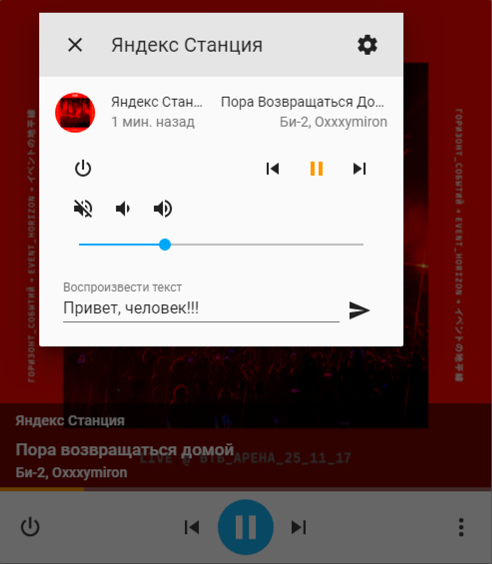
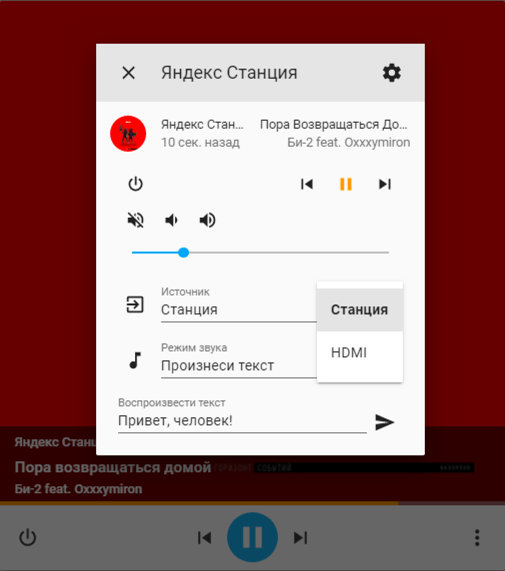
Add support Yandex.Station HDMI

diff --git a/custom_components/yandex_station/utils.py b/custom_components/yandex_station/utils.py
@@ -1,8 +1,10 @@
 import json
 import logging
 import os
-from ssl import SSLContext
+import pickle
+import re
 from functools import lru_cache
+from ssl import SSLContext
 from typing import Optional
 
 import requests
@@ -81,3 +83,89 @@ async def send_to_station(device: dict, message: dict = None):
         _LOGGER.error(f"Station connect error: {e}")
 
         return None
+
+
+UA = "Mozilla/5.0 (Windows NT 10.0; rv:40.0) Gecko/20100101 Firefox/40.0"
+RE_CSRF = re.compile('"csrfToken2":"(.+?)"')
+
+
+class Quasar:
+    """Класс для работы с Квазар API. Авторизация через Яндекс.Паспорт и
+    сохранение сессии в куки.
+    """
+
+    def __init__(self, username: str, password: str, cookie_path: str):
+        self._username = username
+        self._password = password
+        self._cookie_path = cookie_path
+
+        self.session = requests.Session()
+        self.session.headers = {'User-Agent': UA}
+
+        self.load_cookies()
+
+    def load_cookies(self):
+        """Загружает куки из файла."""
+        if os.path.isfile(self._cookie_path):
+            with open(self._cookie_path, 'rb') as f:
+                cookies = pickle.loads(f.read())
+                self.session.cookies.update(cookies)
+
+    def save_cookies(self):
+        """Сохраняет куки в файл."""
+        with open(self._cookie_path, 'wb') as f:
+            pickle.dump(self.session.cookies, f)
+
+    def get_csrf_token(self) -> Optional[str]:
+        """Проверяет есть ли авторизация в Яндексе и если её нет -
+        авторизуется. Возвращает CSRF-токен, необходимый для POST-заросов.
+        """
+        r = self.session.get('https://quasar.yandex.ru/skills/')
+
+        if r.url.endswith('promo'):
+            _LOGGER.info("Login to Yandex Passport")
+
+            self.session.get('https://passport.yandex.ru/')
+            self.session.post('https://passport.yandex.ru/passport', params={
+                'mode': 'auth', 'retpath': 'https://yandex.ru'
+            }, data={
+                'login': self._username, 'passwd': self._password
+            })
+            r = self.session.get('https://quasar.yandex.ru/skills/')
+
+            self.save_cookies()
+
+        else:
+            _LOGGER.debug("Already login Yandex")
+
+        m = RE_CSRF.search(r.text)
+        if m:
+            _LOGGER.debug(f"CSRF Token: {m[1]}")
+            return m[1]
+        else:
+            _LOGGER.error("Can't get CSRF Token")
+            return None
+
+    def get_device_config(self, config: dict):
+        self.get_csrf_token()
+
+        r = self.session.get(
+            'https://quasar.yandex.ru/get_device_config',
+            params={'device_id': config['id'], 'platform': config['platform']})
+        _LOGGER.debug(r.text)
+
+        res = r.json()
+        if res.get('status') == 'error':
+            _LOGGER.error(res['message'])
+            return None
+        else:
+            return res['config']
+
+    def set_device_config(self, config: dict, quasar_config: dict):
+        csrf = self.get_csrf_token()
+        r = self.session.post(
+            'https://quasar.yandex.ru/set_device_config',
+            params={'device_id': config['id'], 'platform': config['platform']},
+            headers={'x-csrf-token': csrf},
+            json=quasar_config)
+        _LOGGER.debug(r.text)

diff --git a/custom_components/yandex_station/media_player.py b/custom_components/yandex_station/media_player.py
@@ -8,12 +8,12 @@ from homeassistant.components.media_player import MediaPlayerDevice, \
     SUPPORT_PAUSE, SUPPORT_VOLUME_SET, SUPPORT_PREVIOUS_TRACK, \
     SUPPORT_NEXT_TRACK, SUPPORT_PLAY, SUPPORT_TURN_OFF, \
     SUPPORT_VOLUME_STEP, SUPPORT_VOLUME_MUTE, SUPPORT_PLAY_MEDIA, SUPPORT_SEEK, \
-    SUPPORT_SELECT_SOUND_MODE
+    SUPPORT_SELECT_SOUND_MODE, SUPPORT_SELECT_SOURCE
 from homeassistant.const import STATE_PLAYING, STATE_PAUSED, \
     STATE_IDLE
 from homeassistant.util import dt
 
-from . import utils
+from . import utils, DOMAIN
 
 _LOGGER = logging.getLogger(__name__)
 
@@ -31,7 +31,12 @@ def setup_platform(hass, config, add_entities, discovery_info=None):
     if discovery_info is None:
         return
 
-    add_entities([YandexStation(discovery_info)])
+    if DOMAIN in hass.data and discovery_info['platform'] == 'yandexstation':
+        quasar = hass.data[DOMAIN]
+        quasar_config = quasar.get_device_config(discovery_info)
+        add_entities([YandexStationHDMI(discovery_info, quasar_config)])
+    else:
+        add_entities([YandexStation(discovery_info)])
 
 
 class YandexStation(MediaPlayerDevice):
@@ -211,3 +216,37 @@ class YandexStation(MediaPlayerDevice):
             'command': 'sendText',
             'text': "Главный экран"
         })
+
+
+SOURCE_STATION = 'Станция'
+SOURCE_HDMI = 'HDMI'
+
+
+class YandexStationHDMI(YandexStation):
+    def __init__(self, config: dict, quasar_config: dict):
+        super().__init__(config)
+
+        self._quasar_config = quasar_config
+
+    @property
+    def supported_features(self):
+        return super().supported_features | SUPPORT_SELECT_SOURCE
+
+    @property
+    def source(self):
+        return SOURCE_HDMI if self._quasar_config.get('hdmiAudio') \
+            else SOURCE_STATION
+
+    @property
+    def source_list(self):
+        return [SOURCE_STATION, SOURCE_HDMI]
+
+    def select_source(self, source):
+        quasar = self.hass.data[DOMAIN]
+
+        if source == SOURCE_STATION:
+            self._quasar_config.pop('hdmiAudio', None)
+        else:
+            self._quasar_config['hdmiAudio'] = True
+
+        quasar.set_device_config(self._config, self._quasar_config)

diff --git a/custom_components/yandex_station/__init__.py b/custom_components/yandex_station/__init__.py
@@ -14,6 +14,7 @@ from homeassistant.setup import setup_component
 
 from zeroconf import ServiceBrowser, Zeroconf
 from . import utils
+from .utils import Quasar
 
 _LOGGER = logging.getLogger(__name__)
 
@@ -43,7 +44,12 @@ def setup(hass, hass_config):
 
     _LOGGER.info(f"{len(devices)} device found in Yandex account.")
 
-    async def play_media(call: ServiceCall):
+    if config.get('control_hdmi'):
+        filename = hass.config.path(f".{DOMAIN}_cookies.pickle")
+        quasar = Quasar(config[CONF_USERNAME], config[CONF_PASSWORD], filename)
+        hass.data[DOMAIN] = quasar
+
+    async def send_command(call: ServiceCall):
         data = dict(call.data)
 
         device: dict = data.pop('device', None)
@@ -86,9 +92,9 @@ def setup(hass, hass_config):
 
     def add_device(info: dict):
         info['yandex_token'] = yandex_token
-        load_platform(hass, 'media_player', DOMAIN, info, hass_config)
+        load_platform(hass, DOMAIN_MP, DOMAIN, info, hass_config)
 
-    hass.services.register(DOMAIN, 'send_command', play_media)
+    hass.services.register(DOMAIN, 'send_command', send_command)
 
     if DOMAIN_TTS not in hass_config:
         # need init tts service to show in media_player window

diff --git a/README.md b/README.md
@@ -2,15 +2,18 @@
 
 Компонент для управления Яндекс.Станцией по локальной сети.
 
-На конец января 2020 поддерживается:
+На начало февраля 2020 поддерживается:
 
 - Яндекс.Станция (большая)
+- Яндекс.Модуль (у меня нет, но по отзывам работает)
 
 Не поддерживается:
 
 - Яндекс.Станция Мини
 - Irbis
 - Dexp
+
+Колонки **не поддерживаются на стороне Яндекса**. Если на колонку "прилетит" новая прошивка с поддержкой управления - она с высокой вероятностью "подхватится" без доработки компонента.
 
 Остальные колонки не тестировались.
 
@@ -43,10 +46,10 @@ script:
   yandex_tts:
     alias: TTS на Яндекс.Станции
     sequence:
-      - service: tts.yandex_station_say
-        data_template:
-          entity_id: media_player.yandex_station_12345678901234567890
-          message: Температура в комнате {{ states("sensor.temperature_hall")|round }} градуса.
+    - service: tts.yandex_station_say
+      data_template:
+        entity_id: media_player.yandex_station_12345678901234567890
+        message: Температура в комнате {{ states("sensor.temperature_hall")|round }} градуса.
 
   yandex_play_album:
     alias: Включить Би-2 на Станции
@@ -56,6 +59,24 @@ script:
         entity_id: media_player.yandex_station_12345678901234567890
         media_content_id: 60062    # ID альбома в Яндекс.Музыка
         media_content_type: album  # album, track or playlist
+
+  yandex_volume_set:
+    alias: Меняем громкость нескольких станций
+    sequence:
+    - service: media_player.volume_set
+      data:
+        entity_id:
+        - media_player.yandex_station_12345678901234567890
+        - media_player.yandex_station_98765432109876543210
+        volume_level: 0.5
+
+  yandex_hdmi_sound:
+    alias: Звук Станции на HDMI
+    sequence:
+    - service: media_player.select_source
+      data:
+        entity_id: media_player.yandex_station_12345678901234567890
+        source: HDMI
 ```
 
 Для шаблонов не забывайте указывать `data_template`, для остальных команд 
@@ -89,6 +110,24 @@ script:
         command: sendText
         text: Повтори за мной 'Привет, человек!'
         device: Яндекс Станция
+```
+
+## Звук Яндекс.Станции по HDMI
+
+Я решил не включать эту функцию в базовую конфигурацию. Она использует совсем
+другие API Яндекса и требует дополнительной авторизации в сервисах Яндекса. 
+
+Сама функция переключения выхода звука находится у Яндекса в бете. В отличии 
+от обычного управления станцией - функция меняет её настройки. Поэтому 
+пользуйтесь на свой страх и риск.
+
+Включается в файле конфигурации:
+
+```yaml
+yandex_station:
+  username: myuser
+  password: mypass
+  control_hdmi: true
 ```
 
 ## Несколько TTS

diff --git a/CHANGELOG.md b/CHANGELOG.md
@@ -1,5 +1,11 @@
 # Changelog
 
+## 0.1.5 - 2020-02-04
+
+### Added
+
+- Возможность переключать выход звука Яндекс.Станции на HDMI
+
 ## 0.1.4 - 2020-02-03
 
 ### Added
